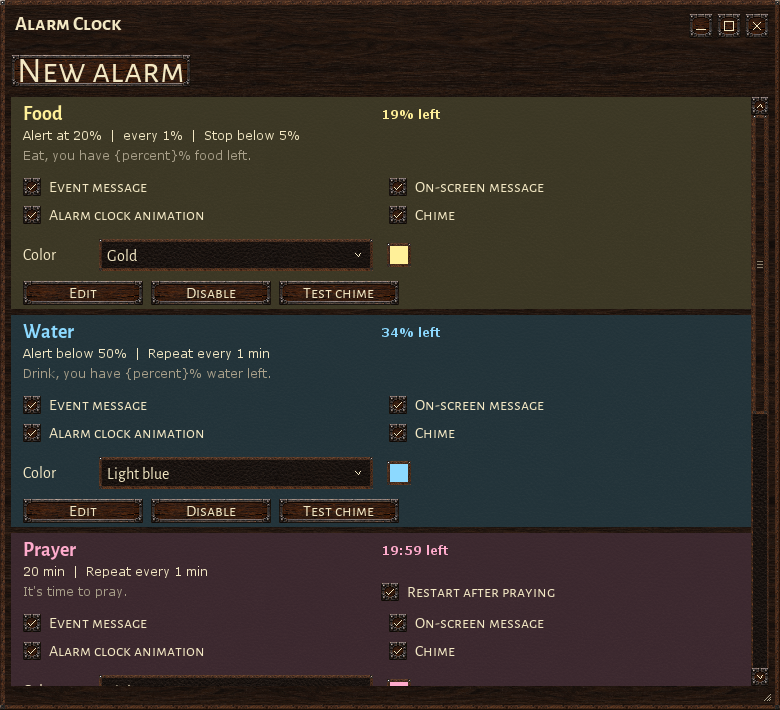
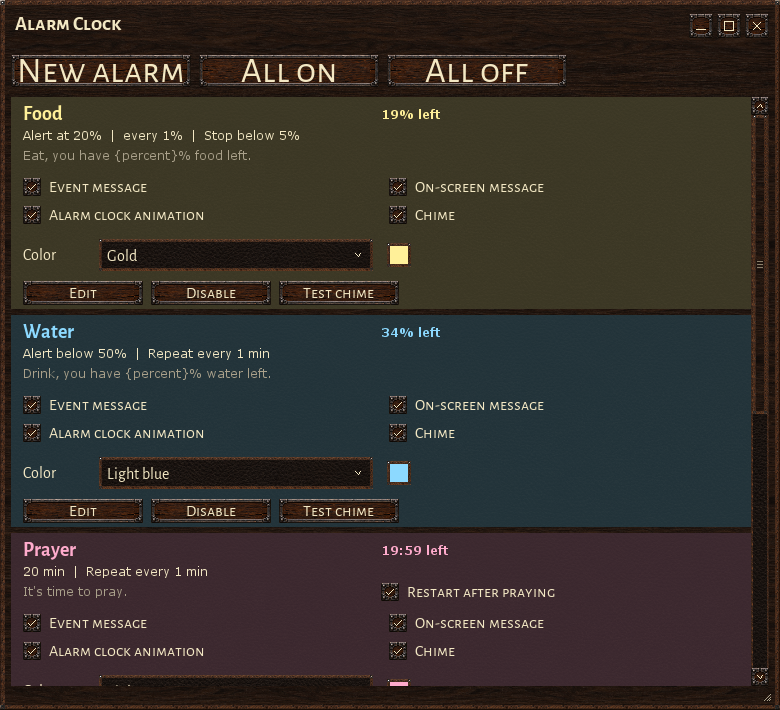
Add All on and All off alarm controls and release 0.3.10

Changed region(s): [[0.2462, 0.062, 0.7385, 0.1239]]

diff --git a/src/test/java/com/wurmonline/client/renderer/gui/AlarmClockLayoutProbe.java b/src/test/java/com/wurmonline/client/renderer/gui/AlarmClockLayoutProbe.java
@@ -48,7 +48,7 @@ public final class AlarmClockLayoutProbe {
         AlarmClockWindow window=new AlarmClockWindow(engine,()->false,a->previewChimes.add(Chime.forAlarm(a)));
         window.setLocation(20,20,780,710);
         preview("alarms-en",window);
-        verifyToolbar(window);verifyActions(window,engine);verifyScroll(window,engine);
+        verifyToolbar(window);verifyActions(window,engine);verifyBulkActions(window,engine);verifyScroll(window,engine);
         verifyFavorHudToggle();
         verifyLauncher();
         verifyHudLifecycle();
@@ -75,7 +75,7 @@ public final class AlarmClockLayoutProbe {
             Messages.select(language);window.relocalize();editor.relocalize();
             check(name.value().equals("Custom prayer reminder")&&message.value().equals("It's time to pray.")&&delay.value().equals("20"),"Language switch preserves unsaved fields");
             preview("alarms-"+language,window);preview("editor-"+language,editor);verifyToolbar(window);verifyAutoRestartChoiceBounds(window);verifyEditorBounds(editor);
-            window.setLocation(20,20,720,370);window.gameTick();verifyAutoRestartChoiceBounds(window);verifyPresentationBounds(window);
+            window.setLocation(20,20,720,370);window.gameTick();verifyToolbar(window);verifyAutoRestartChoiceBounds(window);verifyPresentationBounds(window);
             window.setLocation(20,20,780,710);window.gameTick();
         }
         Messages.select("en");editor.relocalize();
@@ -123,7 +123,17 @@ public final class AlarmClockLayoutProbe {
         check(!labels.containsKey(Messages.t("intro"))&&!labels.containsKey("Alarm Clock "+AlarmClockMod.VERSION),"Crossed-out instruction and version lines are removed");
         Object body=field(AlarmClockWindow.class,"body").get(window);
         ChamomiloSkinnedButton create=(ChamomiloSkinnedButton)field(body.getClass(),"create").get(body);
-        for(ChamomiloSkinnedButton b:new ChamomiloSkinnedButton[]{create}) for(boolean bold:new boolean[]{false,true}) {
+        ChamomiloSkinnedButton allOn=(ChamomiloSkinnedButton)field(body.getClass(),"allOn").get(body);
+        ChamomiloSkinnedButton allOff=(ChamomiloSkinnedButton)field(body.getClass(),"allOff").get(body);
+        check(allOn.getLabel().equals(Messages.t("allOn"))&&allOff.getLabel().equals(Messages.t("allOff")),"Bulk actions use the selected language");
+        check(create.x+create.width+8==allOn.x&&allOn.x+allOn.width+8==allOff.x,"New alarm, All on and All off share one row with 8 px gaps");
+        check(allOff.x+allOff.width<=((WurmComponent)body).x+((WurmComponent)body).width,"Bulk toolbar fits the minimum window width");
+        for(ChamomiloSkinnedButton b:new ChamomiloSkinnedButton[]{create,allOn,allOff}) {
+            check(b.y==create.y&&b.height==32,"Toolbar buttons share a 32 px row");
+            check(b.captionFontPixels()==create.captionFontPixels()&&b.captionBaseline()==create.captionBaseline(),"Toolbar peers share font size and baseline");
+            check(((FlexComponent)body).getComponentAt(b.x+b.width/2,b.y+b.height/2)==b,"Toolbar hit testing reaches every action");
+        }
+        for(ChamomiloSkinnedButton b:new ChamomiloSkinnedButton[]{create,allOn,allOff}) for(boolean bold:new boolean[]{false,true}) {
             Rectangle ink=UiTypography.ink(b.getLabel(),b.captionFontPixels(),bold,UiDensity.HIGH);
             check(UiTypography.width(b.getLabel(),b.captionFontPixels(),bold,UiDensity.HIGH)<=b.width-8,"Toolbar caption clears sides");
             check(b.captionBaseline()+ink.y>=3&&b.captionBaseline()+ink.y+ink.height<=b.height-3,"Toolbar glyph ink clears top/bottom");
@@ -169,6 +179,27 @@ public final class AlarmClockLayoutProbe {
         buttons=(java.util.List<?>)field(cards.get(4).getClass(),"buttons").get(cards.get(4));
         click((WButton)buttons.get(1));check(favor.enabled,"Favor can be re-enabled from its own card");
         verifyAutoRestartChoiceBounds(window);
+    }
+    private static void verifyBulkActions(AlarmClockWindow window,AlarmEngine engine) throws Exception {
+        Object body=field(AlarmClockWindow.class,"body").get(window);
+        WButton allOff=(WButton)field(body.getClass(),"allOff").get(body);
+        allOff.leftPressed(allOff.x+10,allOff.y+10,1);
+        allOff.mouseDragged(allOff.x+allOff.width+10,allOff.y+10);allOff.leftReleased(allOff.x+allOff.width+10,allOff.y+10);
+        for(Alarm alarm:engine.alarms())check(alarm.enabled,"Releasing outside All off cancels the bulk action");
+        click(allOff);
+        for(Alarm alarm:engine.alarms())check(!alarm.enabled,"Completed All off click disables every alarm");
+        preview("alarms-all-off",window);
+        Object list=field(body.getClass(),"list").get(body);
+        for(Object card:(java.util.List<?>)field(list.getClass(),"cards").get(list)) {
+            java.util.List<?> buttons=(java.util.List<?>)field(card.getClass(),"buttons").get(card);
+            check(((WButton)buttons.get(1)).getLabel().equals(Messages.t("enable")),"All off refreshes every row action");
+        }
+        click((WButton)field(body.getClass(),"allOn").get(body));
+        for(Alarm alarm:engine.alarms())check(alarm.enabled,"Completed All on click enables every alarm");
+        Alarm prayer=engine.alarms().get(2);long due=engine.dueAt(prayer);
+        click((WButton)field(body.getClass(),"allOn").get(body));
+        check(engine.dueAt(prayer)==due,"Repeated All on keeps a running timer deadline");
+        verifyToolbar(window);
     }
     private static void verifyPresentationBounds(WurmComponent root) throws Exception {
         for(WurmComponent node:tree(root))if(node instanceof AlarmClockPresentation) {

diff --git a/src/main/java/com/wurmonline/client/renderer/gui/AlarmClockWindow.java b/src/main/java/com/wurmonline/client/renderer/gui/AlarmClockWindow.java
@@ -113,20 +113,27 @@ public final class AlarmClockWindow extends ChamomiloUiV1Window {
     private final class Body extends FlexComponent {
         private final ListContent list = new ListContent();
         private final ChamomiloUiV1ScrollPanel scroll = new ChamomiloUiV1ScrollPanel("alarmclock.list.scroll", list, false, true);
-        private ChamomiloSkinnedButton create;
+        private ChamomiloSkinnedButton create, allOn, allOff;
         private boolean showingSaveFailure;
         Body() { super("alarmclock.body"); scroll.parent = this; scroll.setScale(scale); }
         void refresh() {
-            // Named standard group: alarmclock.toolbar.
+            // Named standard group: alarmclock.toolbar; one row of 180x32 HIGH peers,
+            // sharing the active language's font size and baseline in both weights.
             ChamomiloSkinnedButton.CaptionGroup group = new ChamomiloSkinnedButton.CaptionGroup(
-                    new String[]{Messages.t("new")}, new int[]{180}, 32, scale);
+                    new String[]{Messages.t("new"),Messages.t("allOn"),Messages.t("allOff")}, new int[]{180,180,180}, 32, scale);
             create = action(Messages.t("new"), 180, group, () -> edit(null));
-            create.parent = this;
+            allOn = action(Messages.t("allOn"), 180, group, () -> { engine.setAllEnabled(true,System.currentTimeMillis()); refresh(); });
+            allOff = action(Messages.t("allOff"), 180, group, () -> { engine.setAllEnabled(false,System.currentTimeMillis()); refresh(); });
+            allOn.setHoverString(Messages.t("allOnHint"));
+            allOff.setHoverString(Messages.t("allOffHint"));
+            create.parent = allOn.parent = allOff.parent = this;
             list.rebuild(); componentResized();
         }
         @Override void componentResized() {
-            if (scroll == null || create == null) return;
+            if (scroll == null || create == null || allOn == null || allOff == null) return;
             create.setLocation(x, y, 180, 32);
+            allOn.setLocation(x+188, y, 180, 32);
+            allOff.setLocation(x+376, y, 180, 32);
             int listWidth = Math.max(630, width-18);
             list.resize(listWidth);
             showingSaveFailure=saveFailed.getAsBoolean();
@@ -135,6 +142,8 @@ public final class AlarmClockWindow extends ChamomiloUiV1Window {
         @Override public FlexComponent getComponentAt(int mx,int my) {
             if (!contains(mx,my)) return null;
             if (create.contains(mx,my)) return create;
+            if (allOn.contains(mx,my)) return allOn;
+            if (allOff.contains(mx,my)) return allOff;
             if (scroll.contains(mx,my)) return scroll.getComponentAt(mx,my);
             return this;
         }
@@ -143,7 +152,7 @@ public final class AlarmClockWindow extends ChamomiloUiV1Window {
             scroll.gameTick();
         }
         @Override protected void renderComponent(Queue queue,float ignoredAlpha) {
-            create.render(queue,1f);
+            create.render(queue,1f); allOn.render(queue,1f); allOff.render(queue,1f);
             scroll.render(queue,1f);
             if(saveFailed.getAsBoolean())paintText(queue,text,Messages.t("saveFailed"),x,y+height-8,width,UiColor.DANGER);
         }

diff --git a/src/test/java/org/chamomilo/wurm/alarmclock/AlarmEngineTest.java b/src/test/java/org/chamomilo/wurm/alarmclock/AlarmEngineTest.java
@@ -5,6 +5,50 @@ import java.util.*;
 import static org.junit.Assert.*;
 
 public class AlarmEngineTest {
+    @Test public void bulkSwitchesCoverCustomAlarmsCancelRemindersAndSaveOnce() {
+        List<Alarm> alarms=AlarmEngine.defaults();
+        Alarm custom=Alarm.create(Alarm.Kind.TIMER,"Custom","My reminder");
+        custom.delayMillis=1000;alarms.add(custom);
+        int[] saves={0};List<String> cancelled=new ArrayList<String>(),messages=new ArrayList<String>();
+        AlarmEngine engine=new AlarmEngine(alarms,(a,m)->messages.add(m),()->saves[0]++);
+        engine.onReminderCancelled(alarm->cancelled.add(alarm.id));
+        engine.tick(1000,true,.19f,.2f,50,50);
+        Alarm prayer=alarms.get(2);long prayerDue=engine.dueAt(prayer);
+        engine.toggle(custom,1250);cancelled.clear();saves[0]=0;
+        engine.setAllEnabled(true,2000);
+        assertEquals(1,saves[0]);assertEquals(3000,engine.dueAt(custom));
+        assertEquals(prayerDue,engine.dueAt(prayer));
+        assertEquals(61_000,engine.nextReminderAt(alarms.get(1)));
+        engine.setAllEnabled(true,2500);
+        assertEquals(1,saves[0]);assertEquals(3000,engine.dueAt(custom));
+        assertTrue(cancelled.isEmpty());
+        engine.setAllEnabled(false,2600);
+        assertEquals(2,saves[0]);assertEquals(alarms.size(),cancelled.size());
+        for(Alarm alarm:alarms) {assertFalse(alarm.enabled);assertTrue(cancelled.contains(alarm.id));}
+        int delivered=messages.size();engine.tick(9_000_000,true,.05f,0,50,50);
+        assertEquals(delivered,messages.size());
+        engine.setAllEnabled(false,9_000_001);
+        assertEquals(2,saves[0]);assertEquals(2*alarms.size(),cancelled.size());
+        engine.setAllEnabled(true,10_000_000);
+        assertEquals(3,saves[0]);
+        for(Alarm alarm:alarms)assertTrue(alarm.enabled);
+        assertEquals(10_000_000+prayer.delayMillis,engine.dueAt(prayer));
+        assertEquals(10_001_000,engine.dueAt(custom));
+        engine.tick(10_000_000,true,.05f,0,50,50);
+        assertEquals(delivered+3,messages.size());
+        assertEquals("My reminder",custom.message);
+    }
+    @Test public void allOffAlsoCancelsTheReminderOfAnAlreadyCompletedOneShotTimer() {
+        Alarm alarm=Alarm.create(Alarm.Kind.TIMER,"One shot","Finished");
+        alarm.delayMillis=1000;alarm.repeatMillis=0;
+        List<String> visible=new ArrayList<String>();int[] saves={0};
+        AlarmEngine engine=new AlarmEngine(Collections.singletonList(alarm),(a,m)->visible.add(a.id),()->saves[0]++);
+        engine.onReminderCancelled(a->visible.remove(a.id));
+        engine.tick(1000,true,1,1);engine.tick(2000,true,1,1);
+        assertFalse(alarm.enabled);assertEquals(Collections.singletonList(alarm.id),visible);
+        int saved=saves[0];engine.setAllEnabled(false,2100);
+        assertTrue(visible.isEmpty());assertEquals(saved,saves[0]);
+    }
     @Test public void settingsEditsKeepTimerDeadlineExceptForAnExplicitDelayOrReenable() {
         Alarm timer=Alarm.create(Alarm.Kind.TIMER,"Test","Message");
         AlarmEngine engine=new AlarmEngine(Arrays.asList(timer),(a,m)->{},()->{});

diff --git a/src/main/java/org/chamomilo/wurm/alarmclock/Messages.java b/src/main/java/org/chamomilo/wurm/alarmclock/Messages.java
@@ -11,6 +11,10 @@ public final class Messages {
         add("title", "Alarm Clock", "Despertador", "Wecker", "Будильник");
         add("launcher", "Alarm Clock icon", "Ícone do despertador", "Wecker-Symbol", "Ярлык будильника");
         add("new", "New alarm", "Novo alarme", "Neuer Alarm", "Новый будильник");
+        add("allOn", "All on", "Ativar todos", "Alle an", "Включить все");
+        add("allOff", "All off", "Desativar todos", "Alle aus", "Выключить все");
+        add("allOnHint", "Enable every alarm. Already running timers keep their deadlines.", "Ativa todos os alarmes. Temporizadores em andamento mantêm seus prazos.", "Aktiviert alle Alarme. Laufende Timer behalten ihre Fristen.", "Включить все будильники. Уже работающие таймеры сохраняют время срабатывания.");
+        add("allOffHint", "Disable every alarm and stop active reminders and queued chimes.", "Desativa todos os alarmes e interrompe lembretes ativos e sons na fila.", "Deaktiviert alle Alarme und beendet aktive Erinnerungen und wartende Klänge.", "Выключить все будильники, убрать активные напоминания и отменить звуки в очереди.");
         add("eventMessage","Event message","Mensagem no Event","Event-Meldung","Сообщение в Event");
         add("onScreenMessage","On-screen message","Mensagem na tela","Bildschirmmeldung","Сообщение на экране");
         add("alarmAnimation","Alarm clock animation","Animação do despertador","Weckeranimation","Анимация будильника");

diff --git a/src/main/java/org/chamomilo/wurm/alarmclock/AlarmEngine.java b/src/main/java/org/chamomilo/wurm/alarmclock/AlarmEngine.java
@@ -154,10 +154,26 @@ public final class AlarmEngine {
         alarm.enabled = true; state.dueAt = now + alarm.delayMillis; state.nextReminder = 0; state.lastPercent = 101;
     }
     public void toggle(Alarm alarm, long now) {
-        AlarmRuntimeState state=state(alarm);state.nextReminder = 0;
-        if (alarm.enabled) { alarm.enabled = false; cancelReminder.accept(alarm); }
-        else { alarm.enabled = true; if (alarm.type().has(AlarmType.Parameter.DELAY)) restartWithoutSave(alarm, now); else state.lastPercent = 101; }
+        setEnabledWithoutSave(alarm, !alarm.enabled, now);
         save.run();
+    }
+    /** Bulk enable preserves running timers; bulk disable cancels every active reminder. */
+    public void setAllEnabled(boolean enabled, long now) {
+        boolean changed = false;
+        for (Alarm alarm : alarms) {
+            boolean stateChanged = alarm.enabled != enabled;
+            // A completed one-shot timer can still have a visible or queued reminder.
+            if (!enabled || stateChanged) setEnabledWithoutSave(alarm, enabled, now);
+            changed |= stateChanged;
+        }
+        if (changed) save.run();
+    }
+    private void setEnabledWithoutSave(Alarm alarm, boolean enabled, long now) {
+        AlarmRuntimeState state=state(alarm);state.nextReminder = 0;
+        alarm.enabled = enabled;
+        if (!enabled) cancelReminder.accept(alarm);
+        else if (alarm.type().has(AlarmType.Parameter.DELAY)) restartWithoutSave(alarm, now);
+        else state.lastPercent = 101;
     }
     public void put(Alarm edited, long now) {
         edited.validate();

diff --git a/src/main/java/org/chamomilo/wurm/alarmclock/AlarmClockMod.java b/src/main/java/org/chamomilo/wurm/alarmclock/AlarmClockMod.java
@@ -16,7 +16,7 @@ import java.util.concurrent.atomic.AtomicReference;
 import java.util.logging.*;
 
 public final class AlarmClockMod implements WurmClientMod, PreInitable, Initable, ModListener, SharedLanguageCoordinator.Participant {
-    public static final String VERSION = "0.3.9";
+    public static final String VERSION = "0.3.10";
     public static final FavorReadings FAVOR_READINGS = new FavorReadings();
     private static final Logger LOG = Logger.getLogger(AlarmClockMod.class.getName());
     private static volatile AlarmClockMod instance;

diff --git a/README.md b/README.md
@@ -4,7 +4,7 @@
 
 Keep track of food, water, prayer, meditation and full Favor in Wurm Unlimited. Open your reminders from the draggable HUD clock or the Main menu. Alarms keep running while the list is closed.
 
-**[Download 0.3.9](https://github.com/chamomilo/wurm-alarm-clock/releases/download/v0.3.9/alarmclock-0.3.9.zip)** · [All releases](https://github.com/chamomilo/wurm-alarm-clock/releases) · [Report a problem](https://github.com/chamomilo/wurm-alarm-clock/issues)
+**[Download 0.3.10](https://github.com/chamomilo/wurm-alarm-clock/releases/download/v0.3.10/alarmclock-0.3.10.zip)** · [All releases](https://github.com/chamomilo/wurm-alarm-clock/releases) · [Report a problem](https://github.com/chamomilo/wurm-alarm-clock/issues)
 
 ![Alarm list showing individual reminder options and palette colors](images/alarms.png)
 
@@ -23,6 +23,8 @@ mods/alarmclock/alarmclock.jar
 ```
 
 The shared Chamomilo updater **1.5.0**, common Settings editor and interface kit **0.4.11** are included in the JAR. No separate updater download is needed.
+
+Use **All on** and **All off** beside **New alarm** to enable or disable every built-in and custom alarm. All on keeps already running timers on schedule and starts fresh countdowns for disabled timers. All off immediately clears active reminders and queued chimes. Changes are saved.
 
 ## Built-in reminders
 
@@ -82,7 +84,6 @@ Alarms stay silent while disconnected and resume without a burst of missed remin
 
 ## In this release
 
-- Rebuilt with the current shared updater 1.5.0 and verified its complete embedded contents.
-- Reminders render above windows and popups while allowing mouse input through them.
-- Distinct default colors and a compact named palette on cards and editors; custom colors remain available in Settings.
-- Updated illustrated guide and a minimal installable ZIP.
+- Added **All on** and **All off** next to **New alarm** for all built-in and custom alarms.
+- Bulk changes are saved together; running timers keep their deadlines when All on is pressed.
+- All off immediately clears visible reminders and cancels queued chimes.
